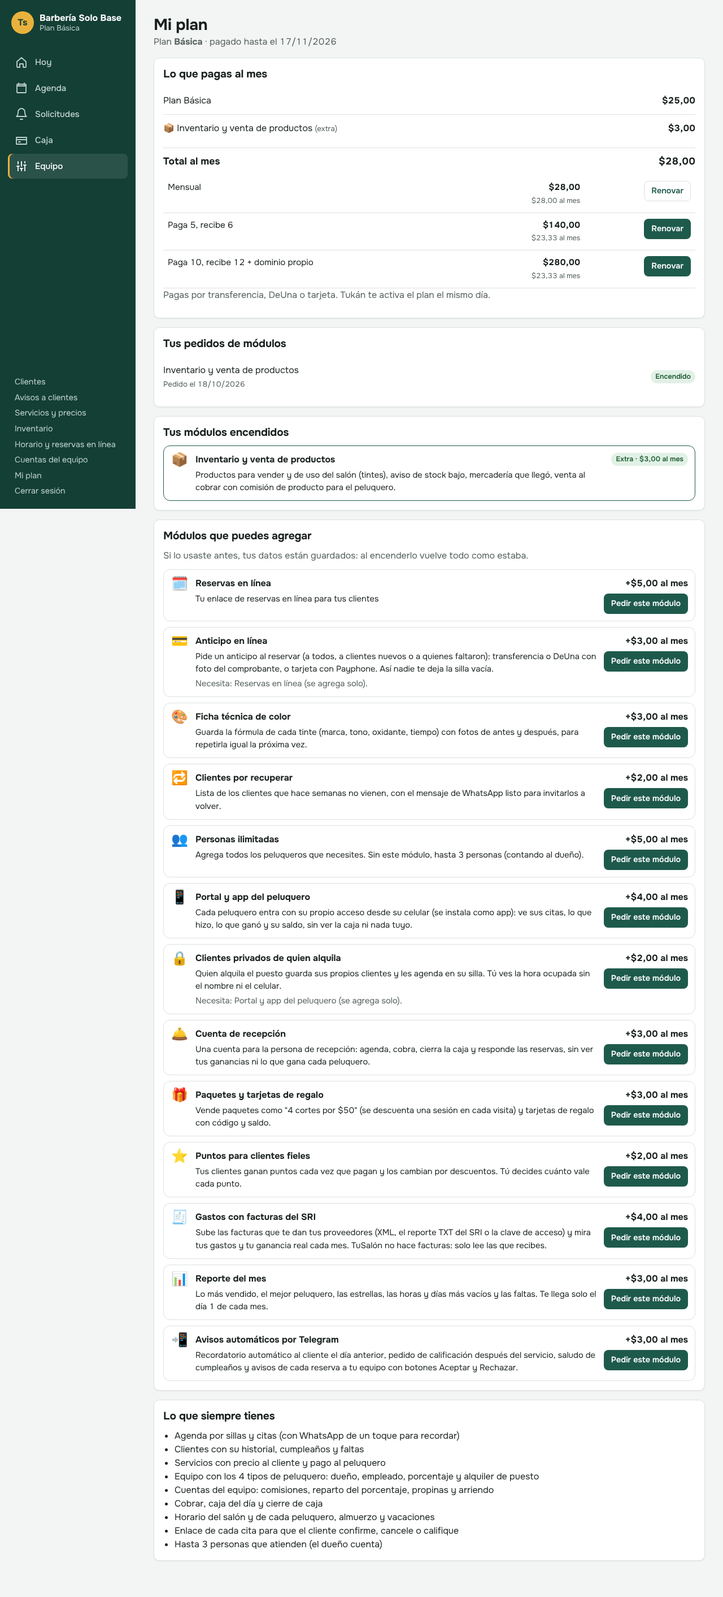
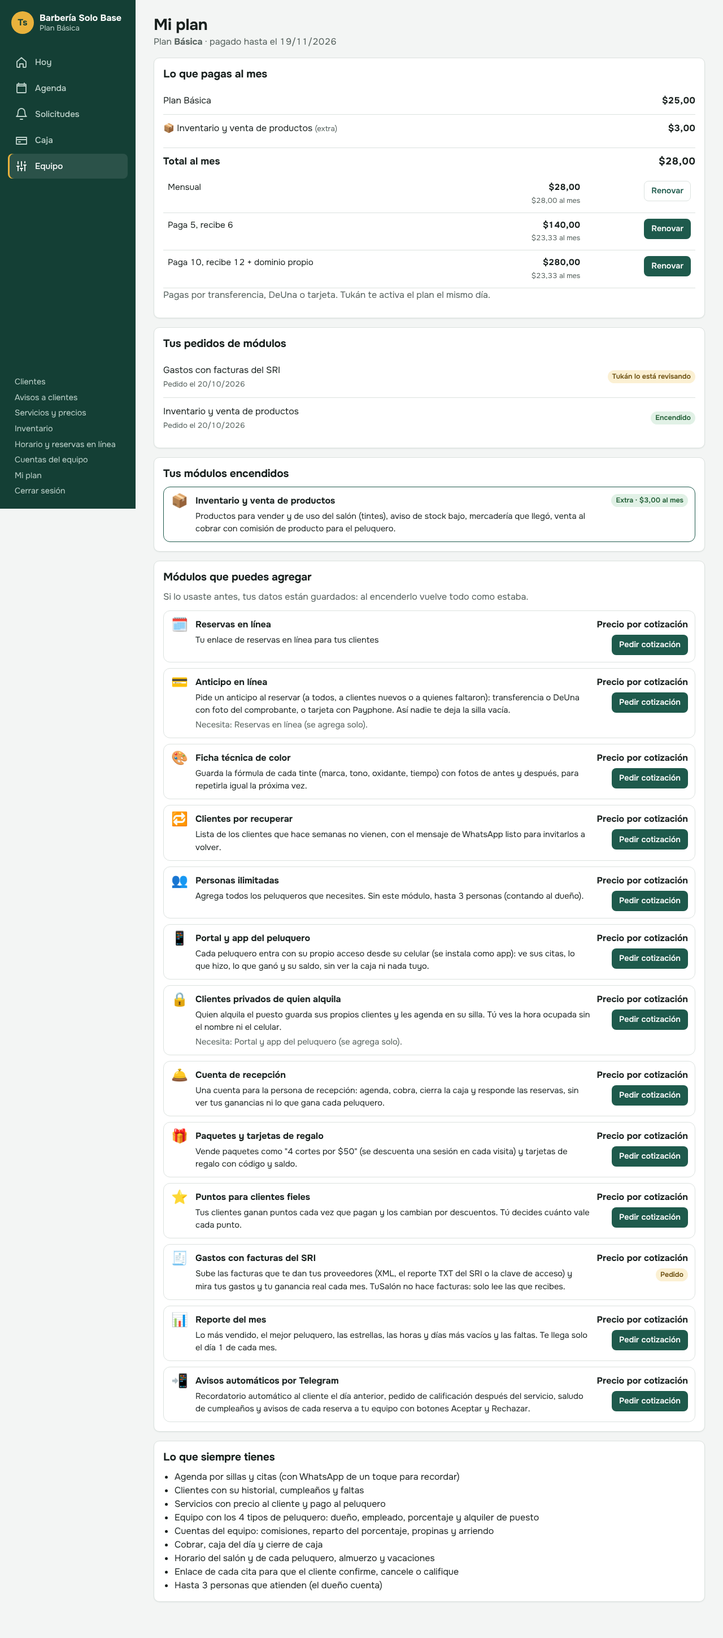
Precios del software solo por cotización y sin «gratis» en pantallas
Regla del dueño de Tukán: el precio del software nunca se publica.
- Mi plan: los módulos que el salón no tiene dicen «Precio por cotización»
  con «Pedir cotización» (pedido cambio_modulos al Panel Tukán Central).
  En la demo: «Lo quiero · Pedir cotización» (sin precio).
  Lo que paga por su propio plan y su renovación se sigue viendo.
- «No está en tu plan»: sin «$X al mes más tu plan»; trae «Pedir cotización»
  y «Ver Mi plan».
- Sin «gratis» en textos, comentarios, guías ni manuales.
- README y guía MODULOS_Y_DEMOS sin precios; capturas 40-45 nuevas.
- Pruebas: prueba_modulos.php (§10 y §11) y prueba_web_modulos.sh fallan si
  vuelve un precio del software en Mi plan / No está en tu plan o «gratis».

Claude-Session: https://claude.ai/code/session_01LhtEtTwxzF9L4p4ryuRPkc

diff --git a/tests/prueba_modulos.php b/tests/prueba_modulos.php
@@ -347,20 +347,37 @@ check('… y ya no se puede crear su demo', 409, $ej('crear_demo', ['nombre' => 
 check('No hay registros solos: el tipo registro_nuevo ya no existe', [], array_values(array_filter(array_column($pedir('solicitudes', ['estado' => 'todas', 'por_pagina' => 200])[1]['solicitudes'], 'tipo'), fn($t) => $t === 'registro_nuevo')));
 
 // ---------------------------------------------------------------------------------------------
-titulo('10. Nada se da gratis: ningún texto promete prueba gratis');
-$archivos = array_merge(glob(RAIZ . '/app/vistas/*.php'), glob(RAIZ . '/app/paginas/*.php'), glob(RAIZ . '/src/*.php'), glob(RAIZ . '/public/assets/*.js'),
-                        [RAIZ . '/README.md', RAIZ . '/docs/GOOGLE_PLAY.md', RAIZ . '/docs/GUIA_DESARROLLO.md'], glob(RAIZ . '/docs/*.html') ?: []);
+titulo('10. Todo se pide demo: ningún texto dice «gratis» (solo demos; en ventas, «meses de regalo»)');
+// En el código PHP se revisa el texto sin los comentarios; README, guías, manuales y JavaScript completos.
+// dominio_gratis y meses_gratis son ids del protocolo con el Panel Tukán Central (no se muestran).
+$archivos = array_merge(glob(RAIZ . '/app/vistas/*.php'), glob(RAIZ . '/app/paginas/*.php'), glob(RAIZ . '/src/*.php'), [RAIZ . '/app/bootstrap.php'],
+                        glob(RAIZ . '/public/assets/*.js'), [RAIZ . '/README.md'], glob(RAIZ . '/docs/*.md') ?: [], glob(RAIZ . '/docs/manual/*.md') ?: [],
+                        glob(RAIZ . '/docs/*.html') ?: [], glob(RAIZ . '/docs/*/*.html') ?: []);
 $malos = [];
 foreach ($archivos as $f) {
-    foreach (file($f) as $n => $linea) {
-        // Se permiten las líneas que explican la regla ("ya no hay prueba gratis", "sin prueba gratis") y los ids del protocolo
-        if (preg_match('/prueba gratis|prueba gratuita|d[ií]as gratis|gratis por|free trial|sin tarjeta/iu', $linea)
-            && !preg_match('/(no|ya no|sin|nada se da) (hay )?(registro con |una )?(prueba gratis|prueba gratuita)|antes:|busca|NO pongas|no se ofrece|Nada se da gratis|ninguna promesa/iu', $linea)) {
-            $malos[] = basename($f) . ':' . ($n + 1);
+    $txt = (string) file_get_contents($f);
+    if (str_ends_with($f, '.php')) {
+        $sin = '';
+        foreach (token_get_all($txt) as $tk) {
+            if (is_array($tk) && in_array($tk[0], [T_COMMENT, T_DOC_COMMENT], true)) $sin .= str_repeat("\n", substr_count($tk[1], "\n"));
+            else $sin .= is_array($tk) ? $tk[1] : $tk;
         }
+        $txt = $sin;
+    }
+    foreach (explode("\n", str_replace(['dominio_gratis', 'meses_gratis'], '', $txt)) as $n => $linea) {
+        if (preg_match('/gratis|gratuit|\bfree\b|sin tarjeta/iu', $linea)) $malos[] = basename($f) . ':' . ($n + 1);
     }
 }
-check('Sin "prueba gratis", "días gratis" ni "sin tarjeta" en pantallas, código ni documentos', [], $malos);
+check('Sin «gratis», «gratuito», «free» ni «sin tarjeta» en pantallas, código, guías ni manuales', [], $malos);
+
+titulo('11. Precios del software solo por cotización (regla del dueño)');
+$vPlan = (string) file_get_contents(RAIZ . '/app/vistas/completa.php');
+$vNo = (string) file_get_contents(RAIZ . '/app/vistas/no_en_plan.php');
+check('Mi plan: lo que no tiene dice «Precio por cotización» y «Pedir cotización»', [true, true, false],
+      [str_contains($vPlan, "'Precio por cotización'"), str_contains($vPlan, 'Pedir cotización'), str_contains($vPlan, 'Pedir este módulo')]);
+check('Mi plan: el botón de la demo no lleva precio', false, (bool) preg_match('/Lo quiero · \+<\?= dinero/u', $vPlan));
+check('«No está en tu plan»: sin precio y con «Pedir cotización»', [false, false, true],
+      [str_contains($vNo, 'precio_mensual'), str_contains($vNo, 'al mes'), str_contains($vNo, 'Pedir cotización')]);
 check('El registro público es "Solicitar demo" y no crea salones', [true, false], [str_contains((string) file_get_contents(RAIZ . '/app/vistas/registro.php'), 'Solicitar demo'),
       str_contains((string) file_get_contents(RAIZ . '/app/paginas/registro.php'), 'crearSalonConDueno')]);
 

diff --git a/app/vistas/completa.php b/app/vistas/completa.php
@@ -9,7 +9,7 @@ foreach ($pedidos as $p) if (in_array($p['estado'], ['pendiente', 'en_proceso'],
 $etiqueta = function (string $id) use ($detalle, $catalogo, $play): string {
     if (in_array($id, $detalle['del_plan'], true) && !in_array($id, $detalle['quitados'], true)) return 'Incluido en tu plan';
     if (in_array($id, $detalle['extra'], true)) return $play ? 'Extra' : 'Extra · ' . dinero($catalogo[$id]['precio_mensual']) . ' al mes';
-    return $play ? 'Para agregar' : '+' . dinero($catalogo[$id]['precio_mensual']) . ' al mes';
+    return $play ? 'Para agregar' : 'Precio por cotización';   // regla del dueño: lo que no tiene no muestra precio
 };
 $activos = array_values(array_filter($catalogo, fn($m) => in_array($m['id'], $detalle['activos'], true)));
 $disponibles = array_values(array_filter($catalogo, fn($m) => !in_array($m['id'], $detalle['contratados'], true)));
@@ -77,7 +77,7 @@ $vence = $esDemo ? $u['prueba_hasta'] : $u['activo_hasta'];
                 <?php if ($esDemo && !in_array($m['id'], $detalle['contratados'], true) && !$play): ?>
                     <?php if (isset($abiertos[$m['id']])): ?><small>Ya lo pediste</small><?php else: ?>
                     <form method="post"><?= campo_csrf() ?><input type="hidden" name="accion" value="pedir"><input type="hidden" name="modulo" value="<?= e($m['id']) ?>">
-                        <button class="boton boton-claro boton-chico" type="submit">Lo quiero · +<?= dinero($m['precio_mensual']) ?></button></form>
+                        <button class="boton boton-claro boton-chico" type="submit">Lo quiero · Pedir cotización</button></form>
                     <?php endif; ?>
                 <?php endif; ?></div>
         </li>
@@ -101,7 +101,7 @@ $vence = $esDemo ? $u['prueba_hasta'] : $u['activo_hasta'];
                 <?php if ($pedido): ?><span class="etq etq-pendiente">Pedido</span>
                 <?php elseif (!$play): ?>
                     <form method="post"><?= campo_csrf() ?><input type="hidden" name="accion" value="pedir"><input type="hidden" name="modulo" value="<?= e($m['id']) ?>">
-                        <button class="boton boton-chico" type="submit">Pedir este módulo</button></form>
+                        <button class="boton boton-chico" type="submit">Pedir cotización</button></form>
                 <?php endif; ?>
             </div>
         </li>

diff --git a/src/TukanCentralV2.php b/src/TukanCentralV2.php
@@ -21,7 +21,7 @@ use Throwable;
  *            y del Anexo B: cambiar_modulos, guardar_modulos — ver Modulos). Lectura del Anexo B: modulos.
  * Las reglas del negocio son las de TuSalón (Planes, PanelTukan, Altas); aquí solo se validan los datos,
  * se arma la respuesta y se garantiza que una operación repetida no se haga dos veces (tukan_central_operaciones).
- * Solicitudes: pedidos de demo (el formulario "Solicitar demo": ya no hay prueba gratis), pedidos de módulos desde
+ * Solicitudes: pedidos de demo (el formulario "Solicitar demo": ya no hay registro abierto), pedidos de módulos desde
  * Mi plan (cambio_modulos), pagos automáticos de Google Play y los recordatorios que se arman al momento (demos por
  * terminar, renovaciones, dominios incluidos en el pago anual). TuSalón no tiene comprobantes ni soporte. Las "solicitudes" de reservas de cada salón son del salón, no de Tukán: no se mandan.
  */
@@ -1516,7 +1516,7 @@ final class TukanCentralV2
             throw new TukanCentralError('conflicto', 'Esta solicitud ya fue ' . ($actual === 'atendida' ? 'atendida' : 'descartada') . '.', 409, null,
                                         ['motivo' => 'ya_atendida', 'estado' => $actual]);
         }
-        if ($dominio !== '' && $s['tipo'] !== 'dominio_gratis') throw TukanCentralError::campo('datos.dominio', 'El dominio solo va en un dominio gratis.');
+        if ($dominio !== '' && $s['tipo'] !== 'dominio_gratis') throw TukanCentralError::campo('datos.dominio', 'El dominio solo va en un dominio incluido.');
         if ($guardarDominio) {
             if (!preg_match('/^[a-z0-9-]+(\.[a-z0-9-]+)+$/', $dominio)) throw TukanCentralError::campo('datos.dominio', 'El dominio no es válido (ej. barberiaelcorte.com).');
             $this->db->prepare('UPDATE suscripciones SET dominio = ? WHERE id = ? AND dominio IS NULL')->execute([$dominio, (int) $s['detalle']['pago_id']]);

diff --git a/app/paginas/completa.php b/app/paginas/completa.php
@@ -1,8 +1,9 @@
 <?php
 /**
- * Mi plan (Anexo B): lo que siempre tiene el salón (base), sus módulos encendidos con su precio, los que puede agregar
- * y el total al mes. "Pedir este módulo" crea un pedido (cambio_modulos) que Tukán aprueba o rechaza desde el Panel
- * Tukán Central o desde su propio panel. En la app de Google Play no se muestran precios ni pedidos de módulos
+ * Mi plan (Anexo B): lo que siempre tiene el salón (base), sus módulos encendidos, los que puede agregar y lo que paga
+ * al mes por su plan (su contrato). Regla del dueño de Tukán: el precio de lo que el salón NO tiene nunca se muestra:
+ * "Pedir cotización" crea un pedido (cambio_modulos) que llega al Panel Tukán Central (o al panel de Tukán), que cotiza,
+ * aprueba o rechaza. En la app de Google Play no se muestran precios ni pedidos de módulos
  * (ahí solo se paga el plan con Google; ver docs/GOOGLE_PLAY.md).
  */
 $mods = modulos();
@@ -15,7 +16,7 @@ if (es_post()) {
         $m = (string) ($_POST['modulo'] ?? '');
         if (!\TuSalon\Modulos::existe($m)) throw new RuntimeException('Ese módulo no existe.');
         $mods->pedir($sid, (int) $u['id'], [$m], (string) ($_POST['nota'] ?? ''));
-        aviso('Listo. Pediste «' . $mods->nombre($m) . '». Tukán revisa tu pedido y te escribe para encenderlo.');
+        aviso('Listo. Pediste la cotización de «' . $mods->nombre($m) . '». Tukán te escribe con el valor y para encenderlo.');
     } catch (RuntimeException $e) {
         aviso($e->getMessage(), 'error');
     }

diff --git a/app/vistas/no_en_plan.php b/app/vistas/no_en_plan.php
@@ -9,10 +9,15 @@ $esDueno = $u && !es_peluquero($u) && !es_recepcion($u);
     <h1><?= e(($m['icono'] ?? '') . ' ' . ($m['nombre'] ?? 'Esta función')) ?></h1>
     <p><?= e($m['descripcion'] ?? '') ?></p>
     <?php if ($esDueno): ?>
-        <?php if (!en_app_play() && $m): ?><p><strong><?= dinero($m['precio_mensual']) ?> al mes</strong> más tu plan.</p><?php endif; ?>
+        <?php /* Regla del dueño: el precio de un módulo que el salón no tiene no se muestra; se pide cotización */ ?>
+        <?php if (!en_app_play() && $m): ?><p>Pide la cotización y Tukán te escribe con el valor para agregarlo a tu plan.</p><?php endif; ?>
         <p class="suave">Si lo usaste antes, tus datos están guardados: al encenderlo vuelve todo como estaba.</p>
         <div class="acciones">
-            <a class="boton" href="<?= e(url('completa', ['modulo' => $modulo])) ?>">Ver Mi plan</a>
+            <?php if (!en_app_play() && $m): ?>
+                <form method="post" action="<?= e(url('completa')) ?>"><?= campo_csrf() ?><input type="hidden" name="accion" value="pedir"><input type="hidden" name="modulo" value="<?= e($modulo) ?>">
+                    <button class="boton" type="submit">Pedir cotización</button></form>
+            <?php endif; ?>
+            <a class="boton boton-claro" href="<?= e(url('completa', ['modulo' => $modulo])) ?>">Ver Mi plan</a>
         </div>
     <?php else: ?>
         <p class="suave">Pídele al dueño del salón que lo agregue a su plan.</p>

diff --git a/src/PedidosDemo.php b/src/PedidosDemo.php
@@ -7,7 +7,7 @@ use PDO;
 use RuntimeException;
 
 /**
- * "Nada se da gratis, todo se pide demo": el formulario público "Solicitar demo" (?r=registro) ya no crea un salón.
+ * "Todo se pide demo": el formulario público "Solicitar demo" (?r=registro) ya no crea un salón.
  * Guarda el pedido (nombre, salón, ciudad, WhatsApp, correo, qué necesita y los módulos que le interesan), que llega
  * al Panel Tukán Central como solicitud `demo_pedida`. Tukán lo atiende y crea la demo (`crear_demo` con
  * `solicitud_id`) o lo descarta. Estados: nueva → contactada → demo_creada | descartada.

diff --git a/src/Planes.php b/src/Planes.php
@@ -13,7 +13,7 @@ use RuntimeException;
  *  - Cada salón paga su plan + sus módulos extra − el descuento de los que quitó (o un precio acordado)
  *  - Semestral: paga 5, recibe 6
  *  - Anual: paga 10, recibe 12 + dominio propio (a nombre de Tukán)
- *  - No hay prueba gratis: Tukán crea una demo (estado "prueba", días que decide el súper usuario; por defecto 7)
+ *  - No hay periodo de prueba: Tukán crea una demo (estado "prueba", días que decide el súper usuario; por defecto 7)
  */
 final class Planes
 {

diff --git a/src/Altas.php b/src/Altas.php
@@ -30,7 +30,7 @@ final class Altas
         }
     }
 
-    /** registro = se registró solo (solo salones viejos: ya no hay prueba gratis), super, central, demo_pedida (demo de un pedido del formulario). */
+    /** registro = se registró solo (solo salones viejos: ya no hay registro abierto), super, central, demo_pedida (demo de un pedido del formulario). */
     public const ORIGENES = ['registro', 'super', 'central', 'demo_pedida'];
 
     /**

diff --git a/app/paginas/registro.php b/app/paginas/registro.php
@@ -1,6 +1,6 @@
 <?php
 /**
- * "Solicitar demo" (antes: registro con prueba gratis). Nada se da gratis, todo se pide demo:
+ * "Solicitar demo" (antes: registro abierto con periodo de prueba). Todo se pide demo:
  * este formulario NO crea un salón. Guarda el pedido (PedidosDemo) y Tukán lo atiende desde el Panel Tukán Central
  * (solicitud demo_pedida → crear_demo) o desde su propio panel (Inicio → Pedidos de demo).
  */

diff --git a/docs/manual/MODULOS_Y_DEMOS.md b/docs/manual/MODULOS_Y_DEMOS.md
@@ -7,41 +7,41 @@ Todos los salones tienen la **base**: agenda por sillas y citas, clientes con su
 equipo con los 4 tipos de peluquero (dueño, empleado, porcentaje y alquiler de puesto), las cuentas de cada uno, cobrar, caja y cierre de caja,
 horarios, el enlace de cada cita para que el cliente confirme o cancele, y hasta 3 personas que atienden.
 
-Lo demás son **módulos**: cada uno se enciende o se apaga para tu salón y tiene su precio al mes.
+Lo demás son **módulos**: cada uno se enciende o se apaga para tu salón. El precio es **por cotización**: pídela en Mi plan y Tukán te escribe.
 
-| Módulo | Para qué sirve | Al mes |
-|---|---|---|
-| 🗓 Reservas en línea | Tu enlace para que los clientes reserven solos; cuenta del cliente, cambiar la hora y fotos | $5 |
-| 💳 Anticipo en línea | El cliente paga una parte al reservar (necesita Reservas en línea) | $3 |
-| 🎨 Ficha técnica de color | La fórmula de cada tinte con fotos de antes y después | $3 |
-| 🔁 Clientes por recuperar | Quién dejó de venir, con el WhatsApp listo | $2 |
-| 👥 Personas ilimitadas | Más de 3 personas que atienden | $5 |
-| 📱 Portal y app del peluquero | Cada peluquero ve sus citas y lo que gana en su celular | $4 |
-| 🔒 Clientes privados de quien alquila | Los clientes propios del que alquila el puesto (necesita el Portal) | $2 |
-| 🛎 Cuenta de recepción | Agenda, cobra y cierra la caja sin ver tus ganancias | $3 |
-| 📦 Inventario y venta de productos | Stock, aviso de que se acaba y venta al cobrar | $3 |
-| 🎁 Paquetes y tarjetas de regalo | "4 cortes por $50" y tarjetas con código | $3 |
-| ⭐ Puntos para clientes fieles | Ganan puntos al pagar y los cambian por descuentos | $2 |
-| 🧾 Gastos con facturas del SRI | Sube las facturas que recibes y mira tu ganancia real | $4 |
-| 📊 Reporte del mes | Lo más vendido, el mejor peluquero y las horas vacías | $3 |
-| 📲 Avisos automáticos por Telegram | Recordatorios, calificación, cumpleaños y avisos al equipo | $3 |
+| Módulo | Para qué sirve |
+|---|---|
+| 🗓 Reservas en línea | Tu enlace para que los clientes reserven solos; cuenta del cliente, cambiar la hora y fotos |
+| 💳 Anticipo en línea | El cliente paga una parte al reservar (necesita Reservas en línea) |
+| 🎨 Ficha técnica de color | La fórmula de cada tinte con fotos de antes y después |
+| 🔁 Clientes por recuperar | Quién dejó de venir, con el WhatsApp listo |
+| 👥 Personas ilimitadas | Más de 3 personas que atienden |
+| 📱 Portal y app del peluquero | Cada peluquero ve sus citas y lo que gana en su celular |
+| 🔒 Clientes privados de quien alquila | Los clientes propios del que alquila el puesto (necesita el Portal) |
+| 🛎 Cuenta de recepción | Agenda, cobra y cierra la caja sin ver tus ganancias |
+| 📦 Inventario y venta de productos | Stock, aviso de que se acaba y venta al cobrar |
+| 🎁 Paquetes y tarjetas de regalo | "4 cortes por $50" y tarjetas con código |
+| ⭐ Puntos para clientes fieles | Ganan puntos al pagar y los cambian por descuentos |
+| 🧾 Gastos con facturas del SRI | Sube las facturas que recibes y mira tu ganancia real |
+| 📊 Reporte del mes | Lo más vendido, el mejor peluquero y las horas vacías |
+| 📲 Avisos automáticos por Telegram | Recordatorios, calificación, cumpleaños y avisos al equipo |
 
-- **Plan Básica ($25)**: la base. **Plan Completa ($35)**: todos los módulos (sueltos valdrían $45).
-- Si un módulo no está en tu plan, la página dice **"No está en tu plan"** con su precio y el botón **Ver Mi plan**.
+- **Plan Básica**: la base. **Plan Completa**: todos los módulos. Precios por cotización.
+- Si un módulo no está en tu plan, la página dice **"No está en tu plan"** con los botones **Pedir cotización** y **Ver Mi plan**.
 - **Apagar un módulo no borra nada.** Si lo vuelves a encender, todo sigue como estaba.
 
 ![No está en tu plan (celular)](42_no_en_plan_celular.png)
 
 ## 2. Mi plan (Más → Mi plan)
-- Arriba: **lo que pagas al mes** (plan + módulos extra − lo que quitaste) y los precios por 1, 6 y 12 meses.
-- **Tus módulos encendidos** y **Módulos que puedes agregar**, cada uno con su precio.
-- **Pedir este módulo**: Tukán recibe tu pedido, te escribe y lo enciende. Mientras tanto dice "Tukán lo está revisando".
-- En la demo ves todo encendido; con **Lo quiero** eliges qué módulos quieres al contratar.
+- Arriba: **lo que pagas al mes** por tu plan (plan + módulos extra − lo que quitaste) y lo que pagas por 1, 6 y 12 meses (6 y 12 meses traen meses de regalo).
+- **Tus módulos encendidos** y **Módulos que puedes agregar**: los que no tienes dicen **Precio por cotización**.
+- **Pedir cotización**: Tukán recibe tu pedido, te escribe con el valor y lo enciende. Mientras tanto dice "Tukán lo está revisando".
+- En la demo ves todo encendido; con **Lo quiero · Pedir cotización** eliges qué módulos quieres al contratar.
 
 ![Mi plan (celular)](40_mi_plan_celular.png)
 
-## 3. Nada se da gratis: todo se pide demo
-- Ya no hay "prueba gratis" ni registro solo. En la página de TuSalón el botón es **Solicitar demo**: nombre, salón, ciudad, WhatsApp,
+## 3. Todo se pide demo
+- No hay periodo de prueba ni registro solo. En la página de TuSalón el botón es **Solicitar demo**: nombre, salón, ciudad, WhatsApp,
   correo, qué necesitas y los módulos que te interesan.
 - Tukán te escribe y te prepara la **demo** (con todos los módulos o los que elijas) por los días que acuerden.
 - Cuando la demo termina, al entrar dice **"Tu demo terminó — contáctanos para contratar"**. Tus datos quedan guardados.

diff --git a/README.md b/README.md
@@ -5,29 +5,31 @@ Dirección: **tusalon.tukanec.com** (servidor qfcorp). Web de la marca: tukansof
 
 Un mismo local puede tener 4 tipos de peluquero a la vez: dueño que atiende, empleado (sueldo y/o comisión), porcentaje (50/50, 60/40) y alquiler de puesto.
 
-**Todo es por módulos** y **nada se da gratis, todo se pide demo**:
-- Cada salón tiene la **base** (agenda, clientes, servicios, equipo con los 4 tipos, cuentas del equipo, cobros y caja, horarios, hasta 3 personas) y los **módulos** que contrate. Cada módulo se enciende o se apaga por salón y tiene su precio al mes; **apagar nunca borra datos**.
-- No hay registro con prueba gratis: el formulario público es **Solicitar demo**. Tukán prepara la demo (con todos los módulos o los que elija) desde el Panel Tukán Central o desde su propio panel.
+**Todo es por módulos** y **todo se pide demo**:
+- Cada salón tiene la **base** (agenda, clientes, servicios, equipo con los 4 tipos, cuentas del equipo, cobros y caja, horarios, hasta 3 personas) y los **módulos** que contrate. Cada módulo se enciende o se apaga por salón y su precio es por cotización; **apagar nunca borra datos**.
+- No hay registro abierto ni periodo de prueba: el formulario público es **Solicitar demo**. Tukán prepara la demo (con todos los módulos o los que elija) desde el Panel Tukán Central o desde su propio panel.
 
-### Módulos y precios (USD al mes, se cambian en Panel Tukán → Planes y precios)
-| Módulo | Precio extra | Descuento si se quita del plan | Necesita |
-|---|---|---|---|
-| 🗓 Reservas en línea (enlace propio, cuenta del cliente, cambiar la hora, fotos) | $5 | $2 | — |
-| 💳 Anticipo en línea (transferencia/DeUna o Payphone) | $3 | $1 | Reservas en línea |
-| 🎨 Ficha técnica de color | $3 | $1 | — |
-| 🔁 Clientes por recuperar | $2 | $1 | — |
-| 👥 Personas ilimitadas (sin él: hasta 3) | $5 | $2 | — |
-| 📱 Portal y app del peluquero | $4 | $1,50 | — |
-| 🔒 Clientes privados de quien alquila | $2 | $1 | Portal del peluquero |
-| 🛎 Cuenta de recepción | $3 | $1 | — |
-| 📦 Inventario y venta de productos | $3 | $1 | — |
-| 🎁 Paquetes y tarjetas de regalo | $3 | $1 | — |
-| ⭐ Puntos para clientes fieles | $2 | $1 | — |
-| 🧾 Gastos con facturas del SRI | $4 | $1,50 | — |
-| 📊 Reporte del mes | $3 | $1 | — |
-| 📲 Avisos automáticos por Telegram | $3 | $1 | — |
+### Módulos y planes
+**Precios: por cotización (se definen en el Panel Tukán Central).** Nunca se publican; el salón pide cotización.
 
-Planes: **Básica $25** = solo la base · **Completa $35** = todos los módulos (sumados valen $45). Precio de cada salón = plan + módulos extra − descuento de los que quitó (o un **precio acordado** fijo). Semestral paga 5 y recibe 6; anual paga 10, recibe 12 y trae dominio propio.
+| Módulo | Necesita |
+|---|---|
+| 🗓 Reservas en línea (enlace propio, cuenta del cliente, cambiar la hora, fotos) | — |
+| 💳 Anticipo en línea (transferencia/DeUna o Payphone) | Reservas en línea |
+| 🎨 Ficha técnica de color | — |
+| 🔁 Clientes por recuperar | — |
+| 👥 Personas ilimitadas (sin él: hasta 3) | — |
+| 📱 Portal y app del peluquero | — |
+| 🔒 Clientes privados de quien alquila | Portal del peluquero |
+| 🛎 Cuenta de recepción | — |
+| 📦 Inventario y venta de productos | — |
+| 🎁 Paquetes y tarjetas de regalo | — |
+| ⭐ Puntos para clientes fieles | — |
+| 🧾 Gastos con facturas del SRI | — |
+| 📊 Reporte del mes | — |
+| 📲 Avisos automáticos por Telegram | — |
+
+Planes: **Básica** = solo la base · **Completa** = todos los módulos. Precio de cada salón = plan + módulos extra − descuento de los que quitó (o un **precio acordado** fijo); lo ve y lo cambia solo Tukán (Panel Tukán → Planes y precios, o el Panel Tukán Central). Semestral paga 5 y recibe 6; anual paga 10, recibe 12 (meses de regalo) y trae dominio propio.
 
 - Plan y avance del proyecto: [BLOC_DE_NOTAS.md](BLOC_DE_NOTAS.md)
 - Cómo se reparte el dinero: [docs/COMO_FUNCIONA_EL_DINERO.md](docs/COMO_FUNCIONA_EL_DINERO.md)
@@ -38,7 +40,7 @@ Planes: **Básica $25** = solo la base · **Completa $35** = todos los módulos 
 | Dueño y recepción | `/` (entrar con correo y contraseña; la cuenta de recepción la crea el dueño en Más → Recepción, módulo «Cuenta de recepción») |
 | Quien alquila el puesto | Su portal → **Mis clientes** (módulo «Clientes privados de quien alquila») |
 | Quien quiere TuSalón | `/?r=registro` → **Solicitar demo** (nombre, salón, ciudad, WhatsApp, correo, qué necesita y módulos de interés). No crea el salón: llega a Tukán como pedido de demo |
-| Dueño: su plan | Más → **Mi plan** (`/?r=completa`): sus módulos, lo que puede agregar con su precio y «Pedir este módulo» |
+| Dueño: su plan | Más → **Mi plan** (`/?r=completa`): sus módulos, lo que paga por su plan y los que puede agregar («Precio por cotización» y «Pedir cotización», que llega al Panel Tukán Central como `cambio_modulos`) |
 | Peluquero | `/` con el acceso que le crea el dueño → su portal |
 | Clientes (reservas) | `/?r=reservar&s=<nombre-del-salón>` |
 | Tukán (super administrador) | `/?r=admin_entrar` · cuenta creada con `php bin/crear_admin.php` en el servidor · o con un clic desde el Panel Tukán Central |

diff --git a/docs/GUIA_DESARROLLO.md b/docs/GUIA_DESARROLLO.md
@@ -47,7 +47,7 @@ Notas para quien cambia el código (Claude o un programador). Lo de uso diario e
 - **Conector:** acción `modulos`, `cliente.modulos`, `mensual_estimado` = `modulos.mensual` si tiene un pago vigente con monto, `finanzas.mrr` = suma de eso y `finanzas.por_modulo`. `capacidades.revision` = 3.
 
 ## Todo se pide demo (18 oct 2026, `src/PedidosDemo.php`)
-- **No hay registro con prueba gratis.** `?r=registro` es "Solicitar demo": guarda `pedidos_demo` (5 por hora por IP, campo trampa `sitio_web`, el mismo correo abierto se actualiza) y NO crea salones. Llega al Central como `demo_pedida:<id>` (nueva → pendiente, contactada → en_proceso, demo_creada → atendida, descartada). `crear_demo` con `solicitud_id` lo deja "demo creada" (origen `demo_pedida`) y copia lo que pidió a las notas internas. En el panel de Tukán: Resumen → Pedidos de demo → Crear demo (`admin_nuevo?pedido=N`, con módulos a elegir).
-- El estado interno sigue llamándose `prueba` (y la ruta `prueba_terminada`), pero **todo texto visible dice "Demo"**. `tests/prueba_modulos.php` busca "prueba gratis", "días gratis" y "sin tarjeta" en pantallas, código y documentos.
+- **No hay registro abierto ni periodo de prueba.** `?r=registro` es "Solicitar demo": guarda `pedidos_demo` (5 por hora por IP, campo trampa `sitio_web`, el mismo correo abierto se actualiza) y NO crea salones. Llega al Central como `demo_pedida:<id>` (nueva → pendiente, contactada → en_proceso, demo_creada → atendida, descartada). `crear_demo` con `solicitud_id` lo deja "demo creada" (origen `demo_pedida`) y copia lo que pidió a las notas internas. En el panel de Tukán: Resumen → Pedidos de demo → Crear demo (`admin_nuevo?pedido=N`, con módulos a elegir).
+- El estado interno sigue llamándose `prueba` (y la ruta `prueba_terminada`), pero **todo texto visible dice "Demo"**. `tests/prueba_modulos.php` falla si aparece la palabra prohibida de regalar (ver la regla del dueño), su equivalente en inglés o la promesa de no pedir tarjeta en pantallas, código (sin comentarios), guías y manuales; y si Mi plan o «No está en tu plan» vuelven a mostrar el precio de lo que el salón no tiene (todo es «Pedir cotización»). En ventas se dice «meses de regalo».
 - Pruebas: `tests/prueba_modulos.php` (lógica), `tests/prueba_web_modulos.sh` (pantallas), `tests/demo_web.php` (crea los salones de las pruebas de pantallas como lo hace Tukán) y `tests/capturas_modulos.js` (capturas con `CAPTURAS=<carpeta>`).
 
